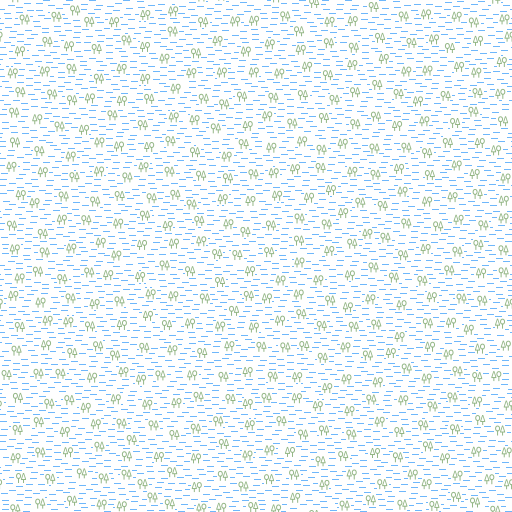
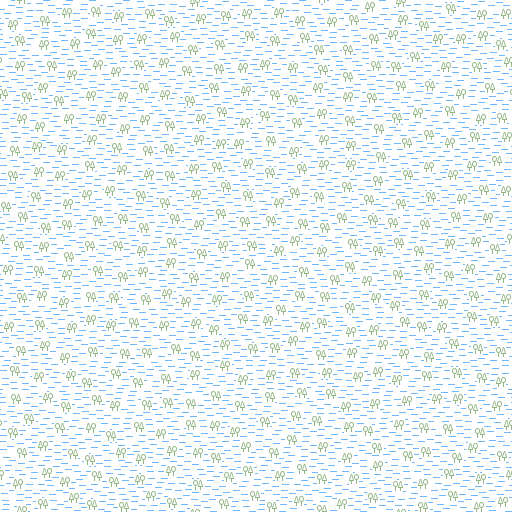
Pixel-aligned and corrected gamma of swamp pattern

diff --git a/symbols/generating_patterns/wetland.md b/symbols/generating_patterns/wetland.md
@@ -32,5 +32,5 @@ convert wetland_512.png \( pattern_casing.png -negate \) -compose Lighten -compo
 
 convert -depth 8 -size 512x512 xc:"#93b685" \( swamp.png -negate \) -set colorspace RGB -alpha Off -compose CopyOpacity -composite pattern_col.png
 
-convert -depth 8 -size 512x512 xc:"#4aa5fa" \( wetland_pattern_bkg.png -negate \) -set colorspace RGB -alpha Off -compose CopyOpacity -composite +compose pattern_col.png -compose Over -composite wetland_pattern.png
+convert -depth 8 -size 512x512 xc:"#4aa5fa" \( wetland_pattern_bkg.png -negate \) -set colorspace RGB -alpha Off -compose CopyOpacity -composite +compose pattern_col.png -compose Over -composite  +gamma - -strip wetland_pattern.png
 ```
